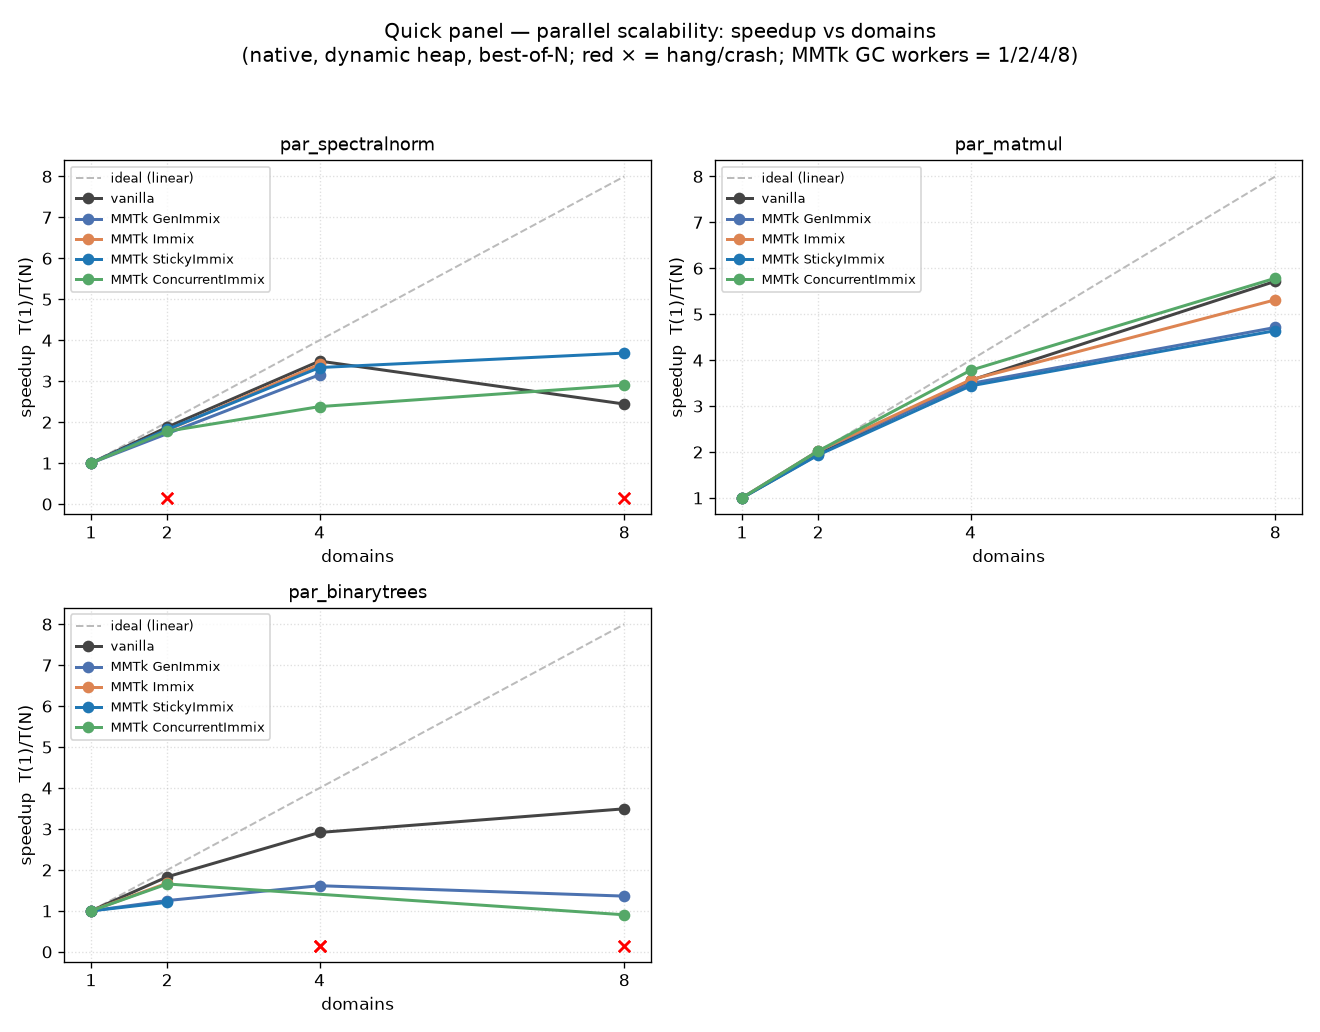
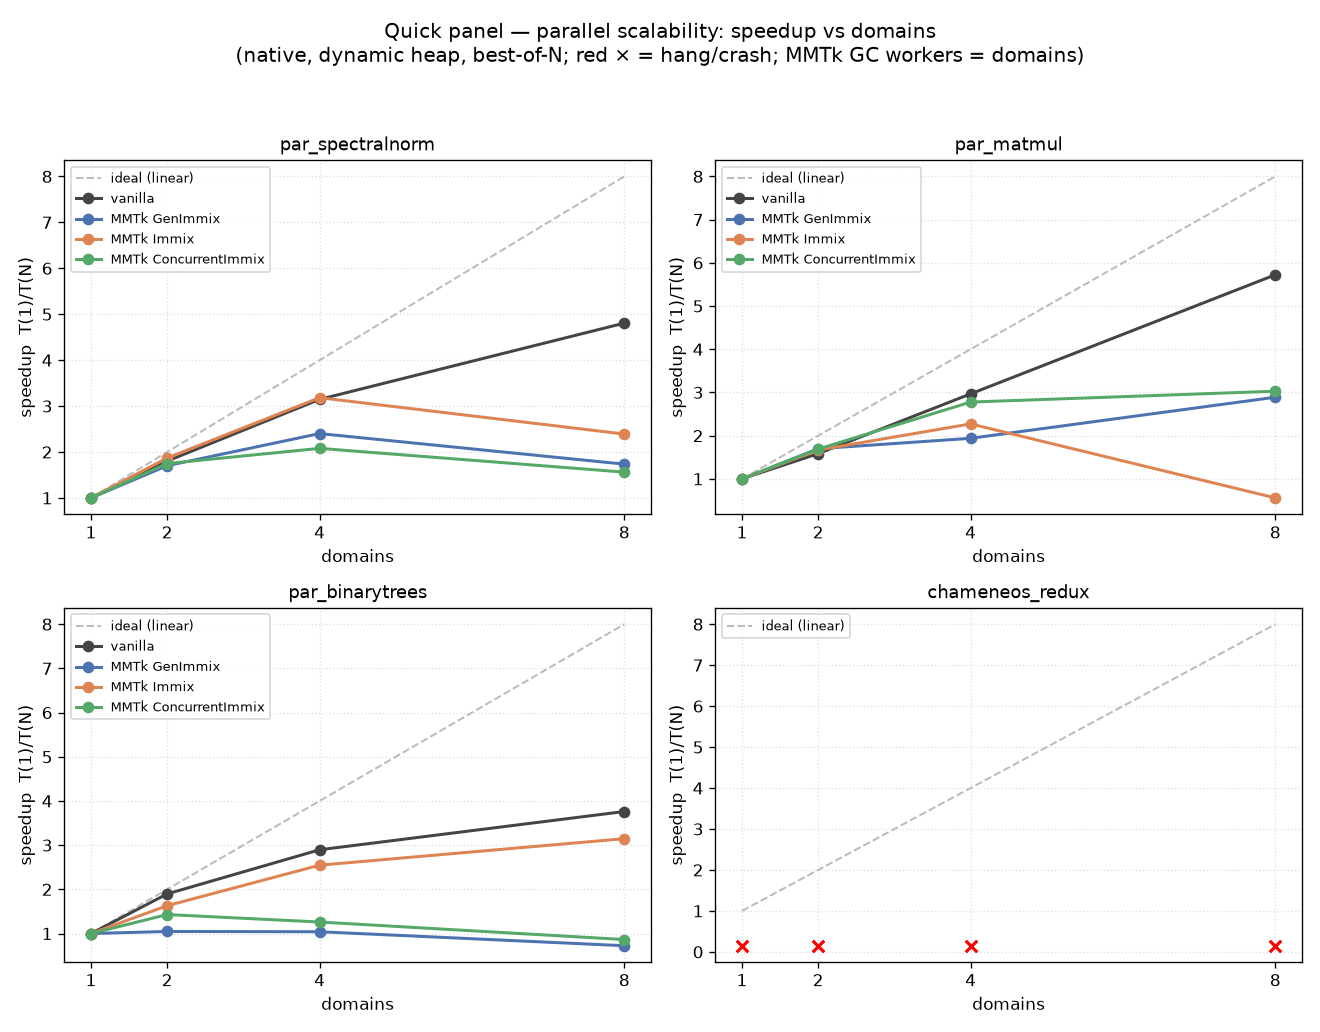
quick: default GC workers = domains; regenerate panel graphs + results
quickbench.py: --threads now defaults to "domains" (workers = each cell's domain
count) — single-domain uses 1 worker (the recommended single-domain config) and
the parallel sweep scales GC workers with mutator domains, matching GC to mutator
parallelism instead of oversubscribing nproc. "nproc"/"" still leave it unset; an
int still pins. Regenerated seq_ratio.png / speedup_domains.png + results.ndjson
from one clean M4 Pro run under this default.

diff --git a/quick/quickbench.py b/quick/quickbench.py
@@ -39,12 +39,13 @@ USAGE
     --domains 1,2,4,8      (par) domain counts to sweep   (default 1,2,4,8)
     --heap MB|dynamic      MMTK_HEAP_SIZE_MB; "dynamic" = don't pin (default),
                            so RSS tracks the live set (memory parity w/ vanilla).
-    --threads N            pin MMTK_THREADS=N (GC workers). DEFAULT: unset — MMTk
-                           uses its own default = nproc (num_cpus::get()). We do
-                           NOT force a value; each record logs the effective count
-                           ("nproc(<cpus>)" when unset) so the panel self-documents.
-                           Pin =1 for a low-overhead single-domain run, or a small
-                           N to cap oversubscription at domains >= cores.
+    --threads V            GC-worker policy. DEFAULT "domains": workers = each
+                           cell's domain count, so single-domain runs use 1 worker
+                           (the recommended single-domain config) and the parallel
+                           sweep scales GC workers with mutator domains (matching GC
+                           to mutator parallelism, no nproc oversubscription). Pass
+                           an int to pin a fixed count, or "nproc"/"" to leave it
+                           unset (MMTk's own default = num_cpus::get()).
     --reps N               measured reps per cell        (default 3, median)
     --warmup N             warmup runs per cell          (default 1)
     --quick                reps=1 warmup=0 + tiny/CI sizes — smoke only.
@@ -146,7 +147,7 @@ def parse_args(argv):
     p.add_argument("--label-b", dest="label_b", default="b")
     p.add_argument("--domains", default="1,2,4,8")
     p.add_argument("--heap", default="dynamic")
-    p.add_argument("--threads", default="")          # "" => leave unset (=nproc)
+    p.add_argument("--threads", default="domains")   # "domains"=workers per cell (default); "nproc"/""=unset; int=pin
     p.add_argument("--reps", type=int, default=3)
     p.add_argument("--warmup", type=int, default=1)
     p.add_argument("--quick", action="store_true")
@@ -215,14 +216,26 @@ def pin_prefix(a, k):
     return ["taskset", "-c", f"0-{k-1}"]
 
 
-def effective_threads(a):
-    """The MMTK_THREADS value we set (or None => MMTk default = nproc)."""
-    return a.threads if a.threads else None
+def effective_threads(a, dom):
+    """MMTK_THREADS for this cell, or None => MMTk default (= nproc).
+    Policy "domains" (the default) sets GC workers = the cell's domain count:
+    single-domain -> 1 worker (the recommended single-domain config), and the
+    parallel sweep scales GC workers with mutator domains (matching GC parallelism
+    to mutator parallelism — no nproc oversubscription at domains < cores)."""
+    t = a.threads
+    if not t or t == "nproc":
+        return None
+    if t == "domains":
+        return dom if dom else 1
+    return int(t)
 
 
 def threads_label(a):
-    t = effective_threads(a)
-    return str(t) if t is not None else f"nproc({os.cpu_count()})"
+    if a.threads == "domains":
+        return "domains"
+    if a.threads and a.threads != "nproc":
+        return str(a.threads)
+    return f"nproc({os.cpu_count()})"
 
 
 def cell_env(a, plan, dom):
@@ -232,9 +245,10 @@ def cell_env(a, plan, dom):
         e["MMTK_PLAN"] = plan
         if a.heap != "dynamic":
             e["MMTK_HEAP_SIZE_MB"] = str(a.heap)
-        # GC-worker count: leave UNSET by default so the cell reflects MMTk's
-        # out-of-the-box default (= nproc). Only set it if --threads pins a value.
-        t = effective_threads(a)
+        # GC-worker count. Default policy "domains" sets workers = this cell's
+        # domain count (single-domain -> 1 worker; the parallel sweep scales GC
+        # workers with mutator domains). "nproc"/"" leaves it unset (MMTk default).
+        t = effective_threads(a, dom)
         if t is not None:
             e["MMTK_THREADS"] = str(t)
     if dom is not None:
